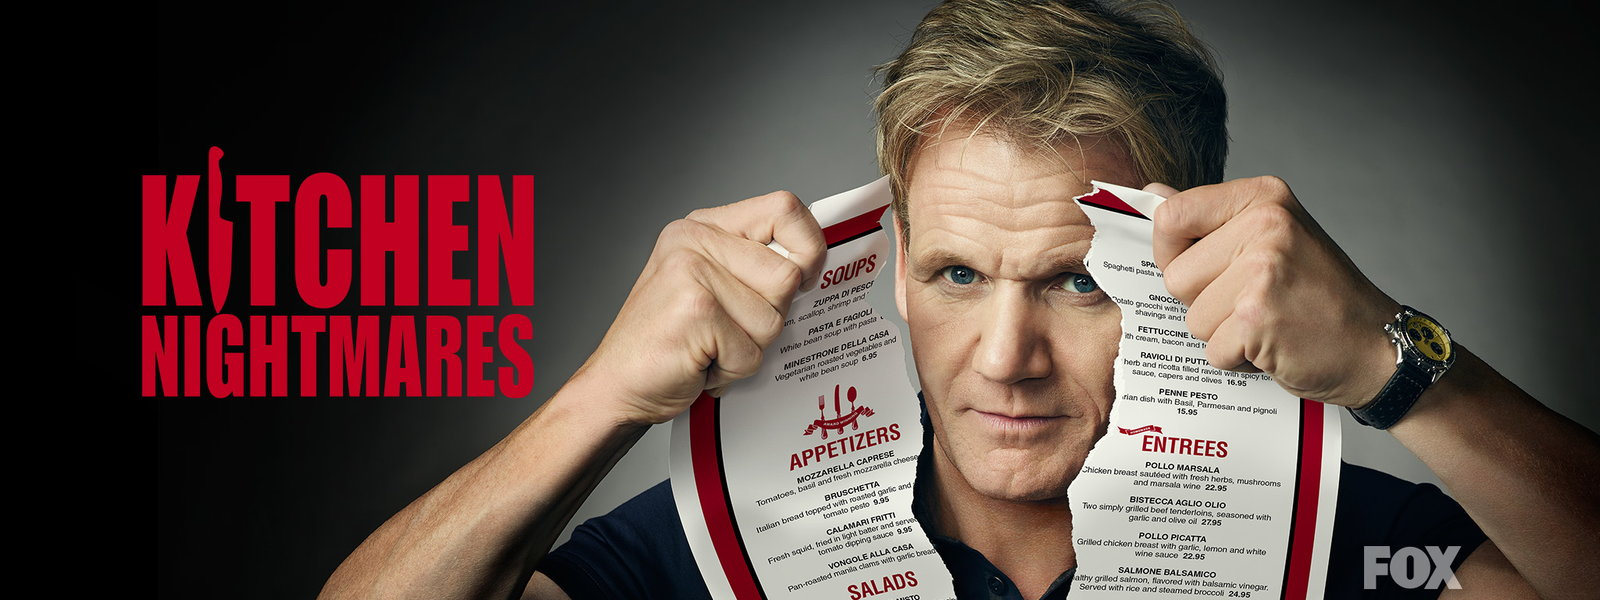
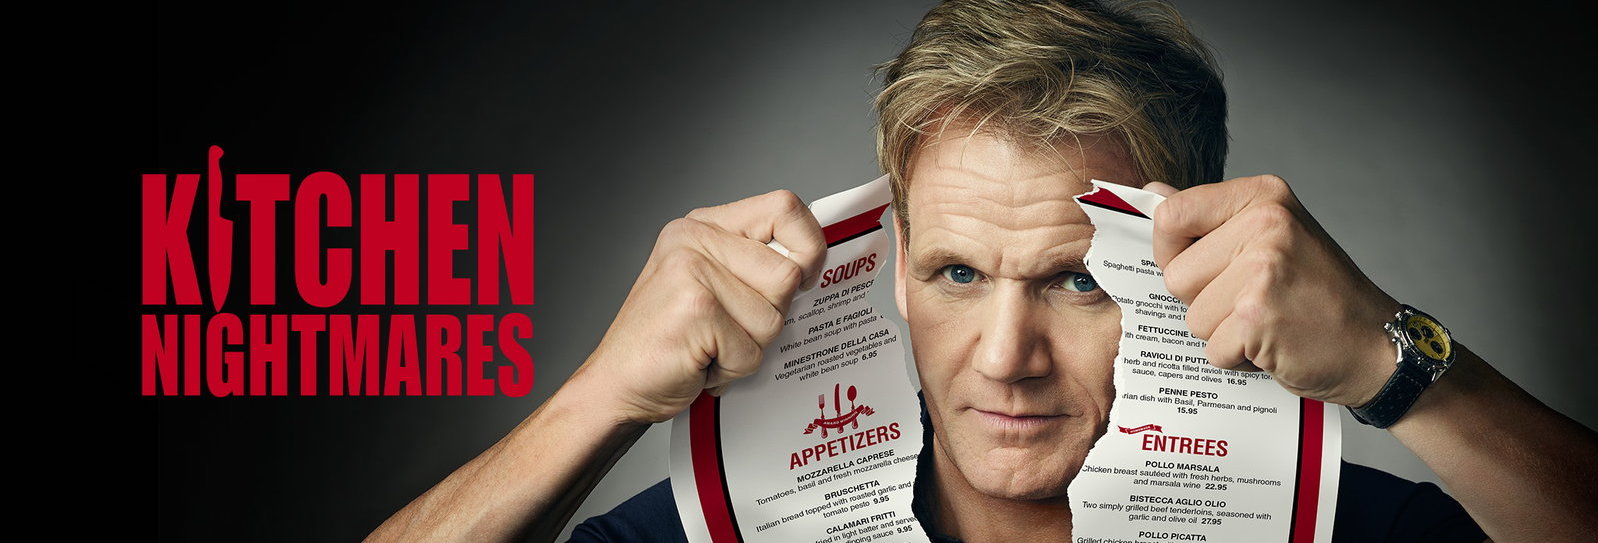
landing page modified

diff --git a/restaurants/templates/restaurants/index.html b/restaurants/templates/restaurants/index.html
@@ -10,10 +10,10 @@
 
       .homepage-hero {
         padding-top: 30px;
-        height: 570px;
+        height: 500px;
         background-color: #333;
         background-size: cover;
-        background-position: 50%;
+        background-position: 0%;
       }
       .y-container {
         /*background-color: #fff;*/
@@ -25,6 +25,25 @@
           font-size: 25px;
           padding-top: 30px;
           padding-bottom: 30px;
+      }
+
+      .data_science {
+          position: relative;
+          top: 325px;
+          left: -400px;
+          text-align: center;
+          font-size: 50px;
+          color: #d32323;
+          font-weight: 900;
+      }
+
+      .btn-danger {
+          height: 38px;
+      }
+
+      .dropdown_position {
+          position: relative;
+          left: 265px;
       }
 
       #option_text {
@@ -41,7 +60,8 @@
   </head>
   <body>
 
-    <div class="y-container homepage-hero" style="background-image: url({% static 'bg.jpeg' %})">
+    <div class="y-container homepage-hero" style="background-image: url({% static 'background.jpeg' %})">
+      <p class="data_science"> WITH DATA SCIENCE</p>
     </div>
 
     <div class="description">
@@ -58,11 +78,10 @@
     </div>
 
     <div class="row">
-
       <div class="col-lg-6">
-          <div class="dropdown">
+          <div class="dropdown dropdown_position">
             {% if restaurant_list %}
-              <button class="btn btn-secondary dropdown-toggle" type="button" id="dropdownMenuButton" data-toggle="dropdown" aria-haspopup="true" aria-expanded="false">
+              <button class="btn btn-danger dropdown-toggle" type="button" id="dropdownMenuButton" data-toggle="dropdown" aria-haspopup="true" aria-expanded="false">
                 Restaurant Name
               </button>
               <div class="dropdown-menu" aria-labelledby="dropdownMenuButton">
@@ -75,31 +94,57 @@
             {% endif %}
           </div>
       </div>
-
       <div class="col-lg-6">
-
         <form>
+          <div class="row">
             <div class="form-group">
-                <label for="neighborhood">Neighborhood</label>
-                <select class="form-control" id="neighborhood">
-                    {% for neighborhood in all_neighborhoods %}
-                        <option>{{ neighborhood }}</option>
-                    {% endfor %}
-                </select>
-            </div>
-            <div class="form-group">
-                <label for="price_range">Price range</label>
+                <!-- <label for="price_range">Price range</label>
                 <select class="form-control" id="neighborhood">
                     {% for range in all_prices_ranges %}
                         <option>{{ range }}</option>
                     {% endfor %}
+                </select> -->
+                <select class="custom-select">
+                  <option selected>Price range</option>
+                  {% for range in all_prices_ranges %}
+                      <option>{{ range }}</option>
+                  {% endfor %}
                 </select>
             </div>
-            <button type="submit" class="btn btn-primary"><a href="#">Submit</a></button>
+            <div class="form-group">
+                <!-- <label for="category">Category</label>
+                <select class="form-control" id="category">
+                    {% for category in all_categories %}
+                        <option>{{ category }}</option>
+                    {% endfor %}
+                </select> -->
+                <select class="custom-select">
+                  <option selected>Category</option>
+                  {% for category in all_categories %}
+                      <option>{{ category }}</option>
+                  {% endfor %}
+                </select>
+            </div>
+            <div class="form-group">
+                <!-- <label for="neighborhood">Neighborhood</label>
+                <select class="form-control" id="neighborhood">
+                    {% for neighborhood in all_neighborhoods %}
+                        <option>{{ neighborhood }}</option>
+                    {% endfor %}
+                </select> -->
+                <select class="custom-select">
+                  <option selected>Neighborhood</option>
+                  {% for neighborhood in all_neighborhoods %}
+                      <option>{{ neighborhood }}</option>
+                  {% endfor %}
+                </select>
+            </div>
+            <a class="btn btn-danger" href="#" role="button">Search</a>
+            <!-- <button type="submit" class="btn btn-primary"><a href="#">Search</a></button> -->
+          </div>
+          <!-- <button type="submit" class="btn btn-primary"><a href="#">Search</a></button> -->
         </form>
-
       </div>
-
     </div>
 
     <div id="bottom">

diff --git a/restaurants/models.py b/restaurants/models.py
@@ -52,18 +52,43 @@ class Restaurant(models.Model):
         return self.name
 
     @staticmethod
+    def get_all_prices_ranges():
+        dls = Restaurant.objects.order_by().values_list('dollar_signs').distinct()
+        dollar_signs = []
+        for row in dls:
+            dl = row[0]
+            if not dl:
+                continue
+            if dl not in dollar_signs:
+                dollar_signs.append(dl)
+        dollar_signs.sort()
+        return dollar_signs
+
+    def get_all_categories():
+        categories_unsplit = Restaurant.objects.order_by().values_list('category').distinct()
+        categories = []
+        for row in categories_unsplit:
+            categories_str = row[0]
+            if not categories_str:
+                continue
+            for category in categories_str.split(','):
+                c = category.strip()
+                if c not in categories:
+                    categories.append(c)
+        categories.sort()
+        return categories
+
     def get_all_neighborhoods():
         neighborhoods_unsplit = Restaurant.objects.order_by().values_list('neighborhood').distinct()
-
-        neighborhoods = set()
+        # neighborhoods = set()
+        neighborhoods = []
         for row in neighborhoods_unsplit:
-
             neighborhoods_str = row[0]
-
             if not neighborhoods_str:
                 continue
-
             for neighborhood in neighborhoods_str.split(','):
-                neighborhoods.add(neighborhood)
-
+                n = neighborhood.strip()
+                if n not in neighborhoods:
+                    neighborhoods.append(n)
+        neighborhoods.sort()
         return neighborhoods

diff --git a/restaurants/views.py b/restaurants/views.py
@@ -10,7 +10,9 @@ def index(request):
     #template = loader.get_template('restaurants/index.html')
     context = {
         'restaurant_list': restaurant_list,
-        'all_neighborhoods': Restaurant.get_all_neighborhoods()
+        'all_neighborhoods': Restaurant.get_all_neighborhoods(),
+        'all_categories': Restaurant.get_all_categories(),
+        'all_prices_ranges': Restaurant.get_all_prices_ranges()
     }
     return render(request, 'restaurants/index.html', context)
 
